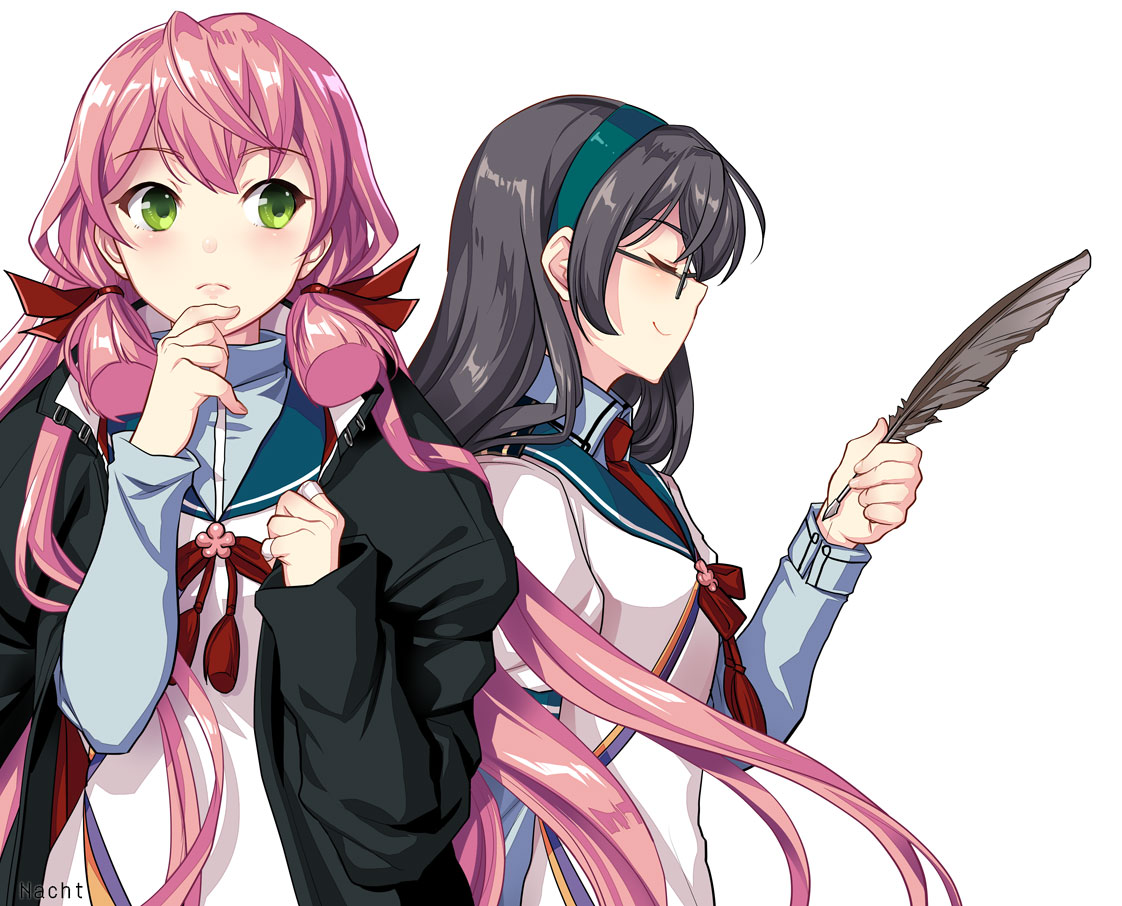
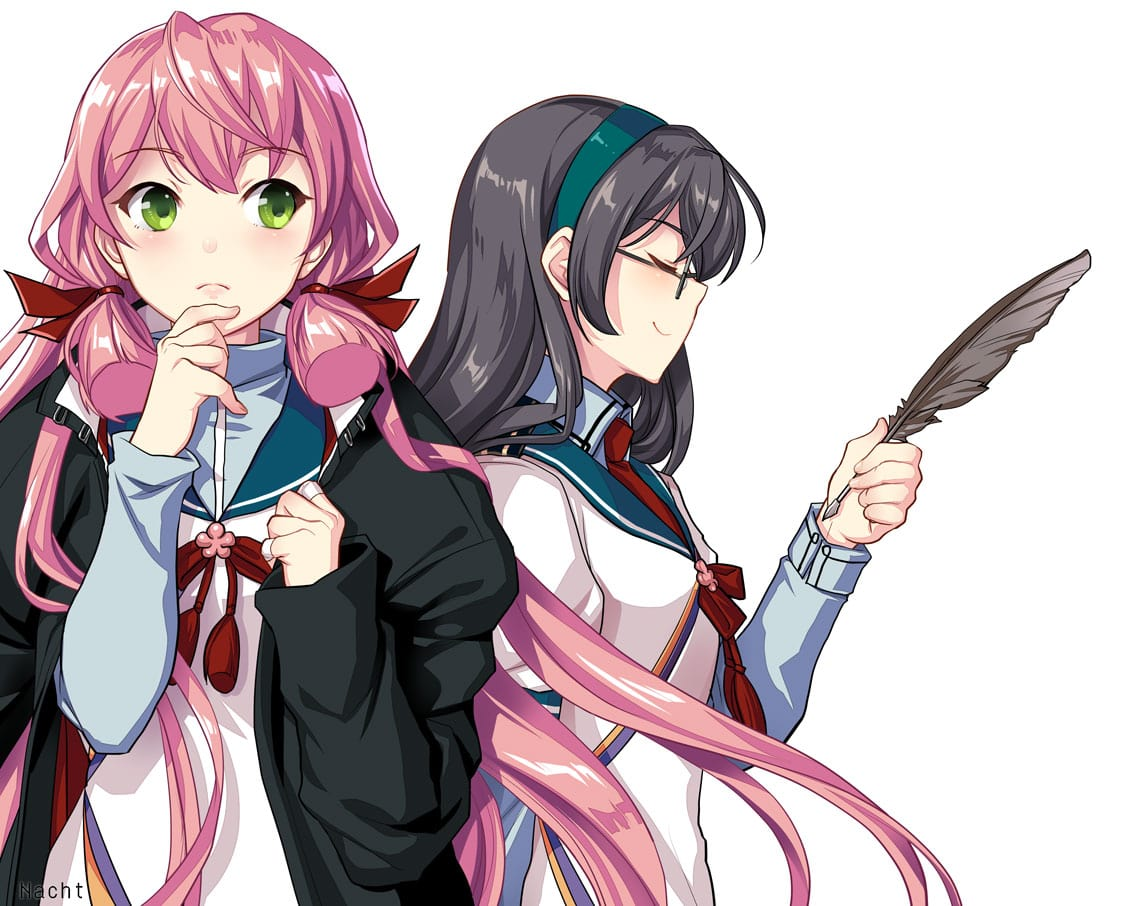
random intro bg && img compress

diff --git a/assets/js/app.js b/assets/js/app.js
@@ -168,6 +168,15 @@ function reset() {
     }
 }
 
+//random intro bg
+$(function() {
+    if (Math.random() >= 0.5) {
+        $('.intro').css("background-image", "url(./images/intro_bg/left/intro_bg" + Math.floor(Math.random() * 2 + 1) + ".jpg)").css("background-position", "left");
+    } else {
+        $('.intro').css("background-image", "url(./images/intro_bg/right/intro_bg" + Math.floor(Math.random() * 4 + 1) + ".jpg)").css("background-position", "right");
+    }
+})
+
 //mmm
 $(function() {
     if (document.location.search == "?mmm") {

diff --git a/assets/css/app.css b/assets/css/app.css
@@ -43,7 +43,7 @@
 /*intro*/
 
 .intro {
-    background: #fff url(../../images/intro_bg.jpg) no-repeat right bottom;
+    background: #fff no-repeat bottom;
     background-size: contain;
 }
 
